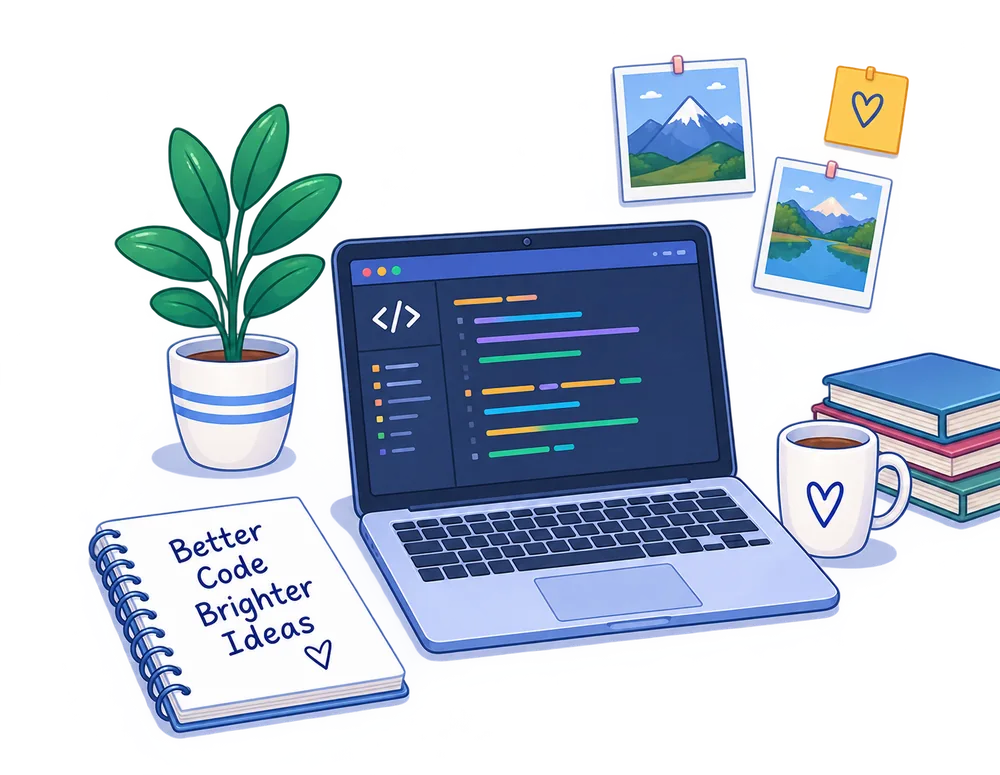
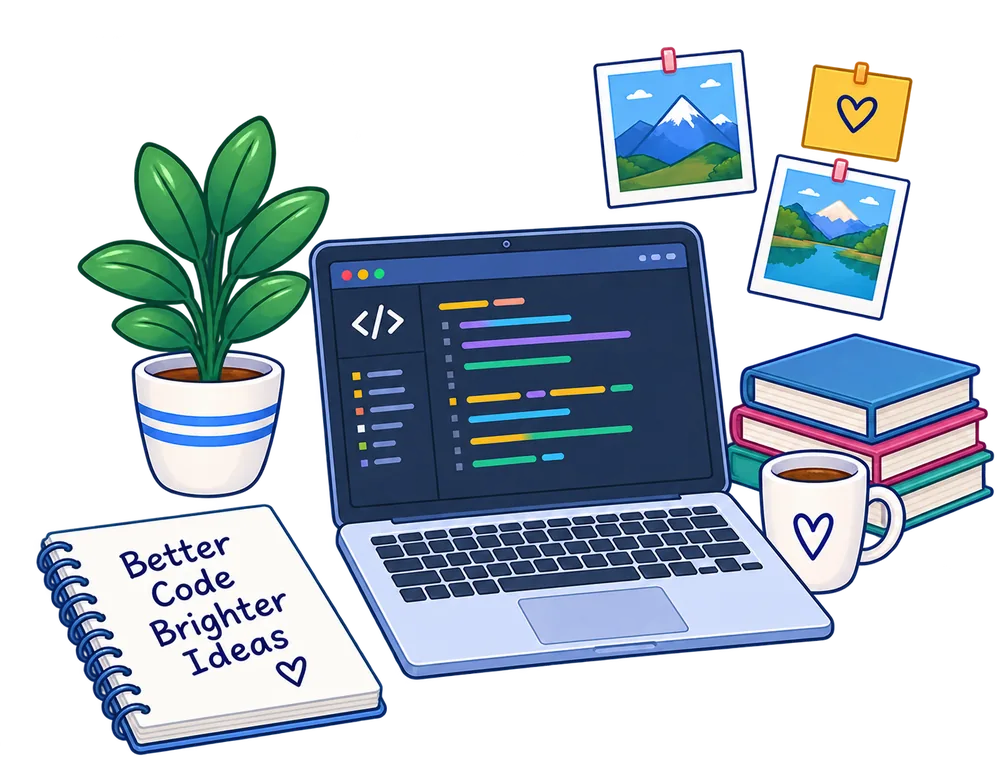
hero image changed again

diff --git a/src/components/Hero.tsx b/src/components/Hero.tsx
@@ -1,5 +1,5 @@
 import { useState } from "react";
-import laptop from "../assets/laptop.png";
+import laptop from "../assets/laptop.webp";
 function Hero() {
   const [isLoaded, setIsLoaded] = useState(false);
 
